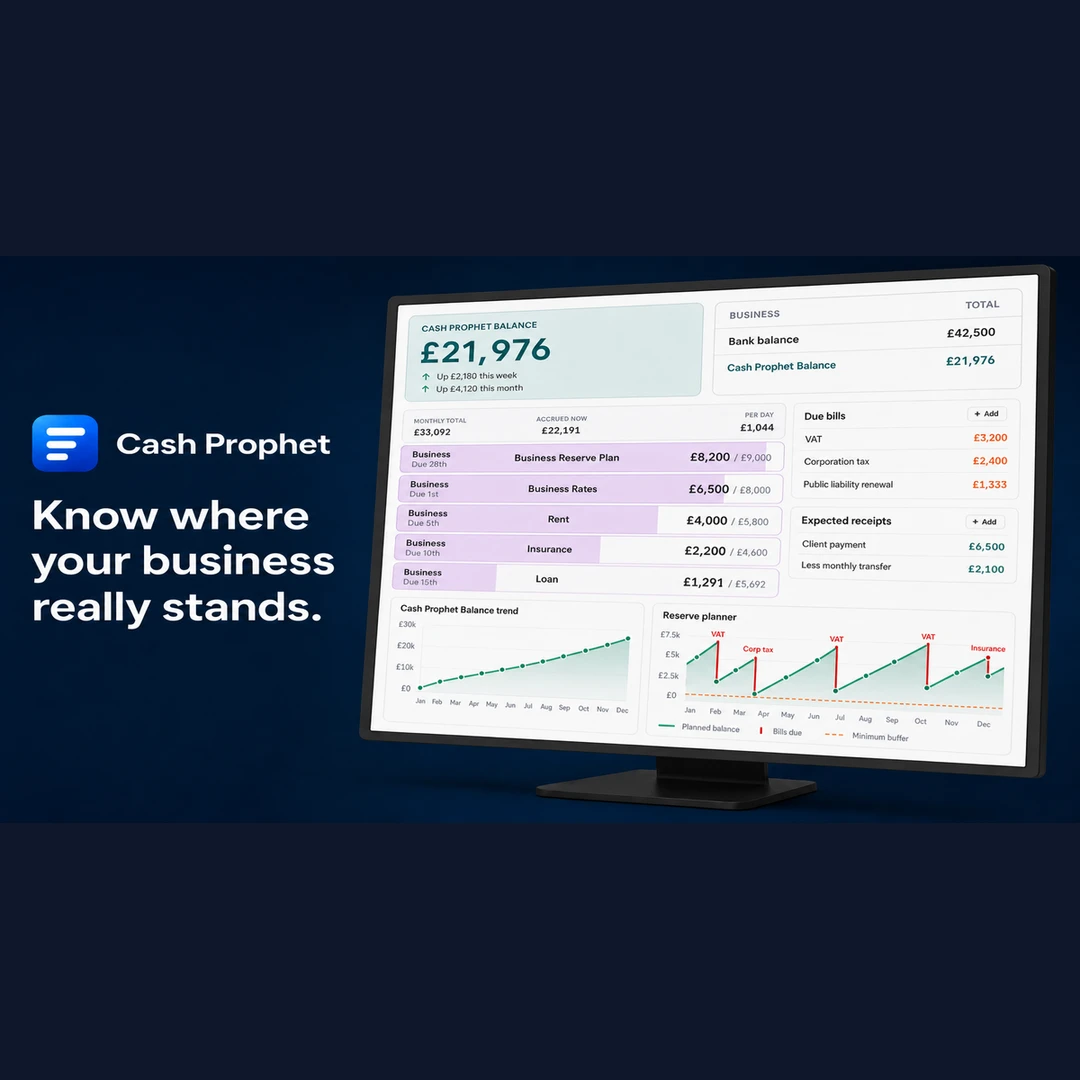
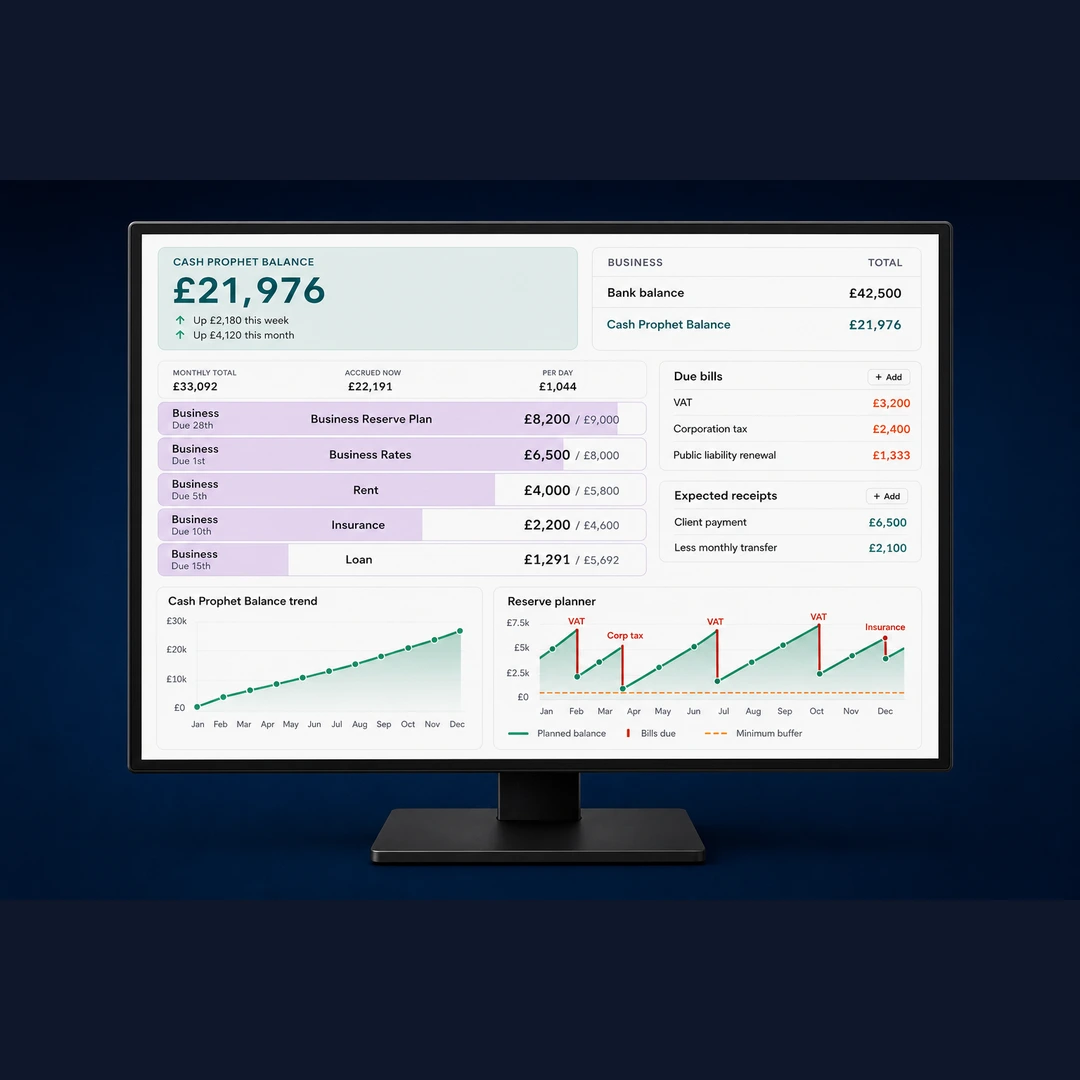
Use monitor-only product shot on homepage and See it; add HQ ad assets.

diff --git a/src/pages/SeeHowItWorksPage.tsx b/src/pages/SeeHowItWorksPage.tsx
@@ -5,7 +5,7 @@ import {
   MarketingShell,
 } from '../components/marketing/MarketingLayout'
 import { DEMO_SCENARIOS, DEMO_FROZEN_DATE_KEY } from '../data/demoScenarios'
-import { SEE_HOW_SEO, SITE_OG_IMAGE } from '../content/marketingSeo'
+import { SEE_HOW_SEO, PRODUCT_MONITOR_IMAGE, PRODUCT_MONITOR_IMAGE_ALT, PRODUCT_MONITOR_IMAGE_WIDTH, PRODUCT_MONITOR_IMAGE_HEIGHT } from '../content/marketingSeo'
 import { usePageMeta } from '../hooks/usePageMeta'
 import { formatSnapshotDateLong } from '../utils/snapshots'
 import { MarketingJsonLd, seeHowPageJsonLd } from '../components/marketing/MarketingJsonLd'
@@ -36,16 +36,13 @@ export function SeeHowItWorksPage() {
             </div>
             <figure className="method-edu-hero-split-visual">
               <img
-                src={SITE_OG_IMAGE}
-                alt="Cash Prophet on a monitor: Cash Prophet Balance, accruing bills, due bills, receipts, balance trend and Reserve Planner"
-                width={1200}
-                height={630}
+                src={PRODUCT_MONITOR_IMAGE}
+                alt={PRODUCT_MONITOR_IMAGE_ALT}
+                width={PRODUCT_MONITOR_IMAGE_WIDTH}
+                height={PRODUCT_MONITOR_IMAGE_HEIGHT}
                 loading="eager"
                 decoding="async"
               />
-              <figcaption className="method-edu-hero-split-caption">
-                A sneak peek of the dashboard you will explore in the demos
-              </figcaption>
             </figure>
           </div>
         </header>

diff --git a/src/components/marketing/HomeHeroVideo.tsx b/src/components/marketing/HomeHeroVideo.tsx
@@ -1,11 +1,16 @@
 import { CanonicalLink } from '../CanonicalLink'
 import { HOME_VIDEO } from '../../content/homePage'
-import { SITE_OG_IMAGE } from '../../content/marketingSeo'
+import {
+  PRODUCT_MONITOR_IMAGE,
+  PRODUCT_MONITOR_IMAGE_ALT,
+  PRODUCT_MONITOR_IMAGE_HEIGHT,
+  PRODUCT_MONITOR_IMAGE_WIDTH,
+} from '../../content/marketingSeo'
 import { getVideoLabel, getVideoUrl } from '../../content/videos'
 import { toVideoEmbedUrl } from '../../utils/videoEmbed'
 
 /**
- * Homepage product snapshot band. Shows the monitor share image until a
+ * Homepage product snapshot band. Shows the monitor product shot until a
  * homepage walkthrough video URL is published.
  */
 export function HomeHeroVideo() {
@@ -35,10 +40,10 @@ export function HomeHeroVideo() {
           ) : (
             <figure className="home-video-snapshot">
               <img
-                src={SITE_OG_IMAGE}
-                alt="Cash Prophet on a monitor: Cash Prophet Balance, accruing bills, due bills, receipts, balance trend and Reserve Planner"
-                width={1200}
-                height={630}
+                src={PRODUCT_MONITOR_IMAGE}
+                alt={PRODUCT_MONITOR_IMAGE_ALT}
+                width={PRODUCT_MONITOR_IMAGE_WIDTH}
+                height={PRODUCT_MONITOR_IMAGE_HEIGHT}
                 loading="lazy"
                 decoding="async"
               />

diff --git a/src/index.css b/src/index.css
@@ -15647,7 +15647,7 @@ tr.sheet-row--received td {
 .method-edu-hero-split-visual {
   margin: 0;
   justify-self: end;
-  max-width: 26rem;
+  max-width: 34rem;
   width: 100%;
 }
 
@@ -15655,17 +15655,11 @@ tr.sheet-row--received td {
   display: block;
   width: 100%;
   height: auto;
-  border-radius: 14px;
-  box-shadow:
-    0 18px 40px rgba(16, 20, 24, 0.12),
-    0 2px 8px rgba(16, 20, 24, 0.06);
+  border-radius: 12px;
 }
 
 .method-edu-hero-split-caption {
-  margin: 0.65rem 0 0;
-  font-size: 0.85rem;
-  line-height: 1.4;
-  color: var(--text-secondary);
+  display: none;
 }
 
 @media (max-width: 860px) {
@@ -15676,7 +15670,7 @@ tr.sheet-row--received td {
 
   .method-edu-hero-split-visual {
     justify-self: center;
-    max-width: 22rem;
+    max-width: 28rem;
   }
 
   .method-edu-hero-split-copy h1 {
@@ -27897,6 +27891,7 @@ body.setup-onboarding-spotlight-active [data-onboarding-focus='true'] {
 }
 
 .home-video-frame--snapshot {
+  width: min(100%, 44rem);
   aspect-ratio: auto;
   background: transparent;
   border: none;
@@ -27912,9 +27907,7 @@ body.setup-onboarding-spotlight-active [data-onboarding-focus='true'] {
   display: block;
   width: 100%;
   height: auto;
-  border-radius: 16px;
-  border: 1px solid rgba(16, 20, 24, 0.1);
-  box-shadow: 0 18px 40px rgba(16, 20, 24, 0.12);
+  border-radius: 12px;
 }
 
 .home-video-snapshot-actions {

diff --git a/src/content/marketingSeo.ts b/src/content/marketingSeo.ts
@@ -2,9 +2,16 @@
 
 export const SITE_OG_IMAGE = '/og-image.webp' as const
 export const SITE_OG_IMAGE_ALT =
-  'Cash Prophet on a monitor — Cash Prophet Balance, monthly accruing bills with progress fills, due bills, receipts, balance trend and reserve planner sawtooth.' as const
+  'Cash Prophet on a monitor: Cash Prophet Balance, monthly accruing bills with progress fills, due bills, receipts, balance trend and reserve planner sawtooth.' as const
 export const SITE_OG_IMAGE_WIDTH = 1200
 export const SITE_OG_IMAGE_HEIGHT = 630
+
+/** Monitor-only product shot for homepage / See it (no share-card branding panel). */
+export const PRODUCT_MONITOR_IMAGE = '/product-monitor.webp' as const
+export const PRODUCT_MONITOR_IMAGE_ALT =
+  'Cash Prophet dashboard on a computer monitor: Cash Prophet Balance, accruing bills, due bills, receipts, balance trend and Reserve Planner' as const
+export const PRODUCT_MONITOR_IMAGE_WIDTH = 1600
+export const PRODUCT_MONITOR_IMAGE_HEIGHT = 900
 
 export type RouteSeo = {
   title: string
